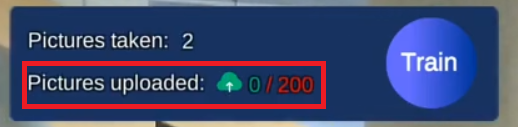
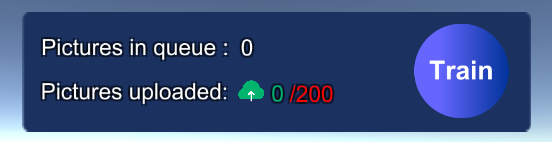
mapping layout

diff --git a/mapping_instructions.md b/mapping_instructions.md
@@ -1,61 +1,92 @@
-## Running the mapping 
-- You first need to make sure that your phone **SLAM** is stable enough to send proper datas to the server.
-- Then when you start mapping a place you need to make sure that you walk **at a normal pace**.
+## Basic theory
+Unlike previous versions, our mapping strategy is focused on collecting good quality data rather than a maximum of data. So the most important mapping instructions are:
+* Avoid blurry pictures, make sure your camera (or mapping device such as drone, smart glasses, etc) correctly focuses.
+* Walk slowly and avoid sharp turns to ensure that there are enough similarities between two frames 
 
-## How to map
+## Step by step explanations based on the Stardust World Scale AR app
+The demo apps are available on [__iOS App store__](https://apps.apple.com/us/app/stardust-world-scale-ar/id1551574766#?platform=iphone) and [__Android Play store__](https://play.google.com/store/apps/details?id=com.neogoma.stardust&pcampaignid=pcampaignidMKT-Other-global-all-co-prtnr-py-PartBadge-Mar2515-1). For Chinese users, please contact us directly if you need an APK. 
 
-### Quick explaination of the process
-1. __Start your mapping__ via UI or [programatically](comp_map_data_uploader.md#startstop-uploading-datas)
-2. __Collect the datas__ by walking around (make sure you consider the __uploaded datas__ and not the locally captured data). You can create objects along your mapping to create "reference positions".
-3. __Train your map__ once you have enough datas **uploaded** via UI or [programatically](comp_map_data_uploader.md#run-generation-new-map)
-4. [__Relocate__](#how-to-relocate) after receiving the notification, eventually update the map
-5. [__Update__ (Optional)](update_instructions.md) via UI or [programatically](comp_map_data_uploader.md#run-update-existing-map)
+Login into the app with your Stardust account. Open the scene “create new map” and input a map name. We’ll automatically assign a name if you lack inspiration. We’ve noticed it’s best to name the map after the place you’re mapping, it will avoid confusion. 
 
-### Detailed explainations based on the Stardust World Scale AR app
-First start on the data capture, from there it will start regularly capturing the frames.
+![Picture taken](_img/map_name.png)
 
-If you use the mapper you will notice on the top that you have 2 numbers:
+You will then land on the data capture scene, where the origin should be where you stand. The origin is represented by X,Y,Z axis in blue, green and red. If you don’t see them, you should close the app and start over to recalibrate your phone, which probably lost tracking during a previous session. This origin is important as it will help you to evaluate the accuracy of the relocation. 
+
+![Picture taken](_img/map_relocate.png)
+
+By clicking on the camera icon on the bottom right side of your screen, you will start mapping, which is another word to say regularly capturing the frames. The frames will be captured when we detect you moved in a significant way rather than at regular intervals. The current version is set to detect a movement of XXXcm or YYY degrees. Each frame taken will also trigger a photo capture animation on the camera icon and 2 numbers will start counting:
+
 ![Picture taken](_img/pic_upload.png)
-* Pictures taken: represents the frames taken on your phone. They __*DO NOT*__ represent the final status of your map
-* Pictures uploaded: represents the frame sucessfully sent to server. __All these pictures will be part of the training.__
 
-Once you start mapping your data are uploaded on the server by batch of 5. The datas are around 6 mb each so if you are using mobile data, __make sure you have enough data in your plan__.
+* Pictures in queue: this number represents every frame taken on your phone. They __DO NOT__ represent the final status of your map, but are an indication of how many frames you can still take until you’ll reach your tier limit.
+* Pictures uploaded: represents the __frame successfully sent to the servers.__ We’re sending them by batch of 5 to servers in Singapore, so it might take a while. Bear with us, we’ll scale that for V1.0. Data are around 6 Mb each so if you are using mobile data, __make sure you have enough data in your plan.__
 
 __You don't have to fill in all your picture quota to train the map (remember to keep some for the [update](update_instructions.md)).__
 
 Once you think you uploaded enough pictures for your space (try to cover as much area as necessary), you can click on the __TRAIN__ button.
 
-If you didn't fully fill in your quota you can [update](update_instructions.md) your map later.
+If you didn't fully fill in your quota you can [__update__](update_instructions.md) your map later.
 
-## How does it work
-Unlike previous versions our mapping strategy is focused on collecting good quality data rather than a maximum of datas.
-As a result the frames will be captured when we detect you moved in a significant way rather than at regular intervals.
+## Adding objects while mapping
+There are 2 ways to anchor 3D objects in your space: with the app while mapping or from the [__editor__](editor_commands.md). Creating objects while mapping is not only a good way to evaluate the accuracy of the relocation, but also to give you reference points for further creation. Just click on the + button to drop objects to your space. You can upload more objects from your dashboard, we are currently supporting .obj file and unity bundles.
 
-## How to relocate
-Go to a place or near a place that you __already mapped__ then try to relocate there.
+![Picture taken](_img/map_object.png)
 
-Make sure you __stand still__ when launching the relocation in order to avoid frame blurriness.
+## Adding navigation targets while mapping
+Similar to objects creation, the app allows you to add destination targets while mapping. You need to name the targets first and click on + to add them in your space. After relocating, you will be able to navigate to each target independently.
 
-**How do I know if I relocated properly ?**
+![Picture taken](_img/map_navigate.png)
 
-In the Stardust World Scale AR demo app, we show a 3D model that tells you where you started mapping.
-If you created objects, after relocation they should be close to where you put them.
+## Where and what to map
+__There is no physical limits to spaces you can map, but a couple of guidelines to keep in mind:__
 
-## Examples
+* Similar to the way human eyes work, a camera can’t map or recognize a completely dark space
+* Reflective surfaces will create different visual features based on your current viewpoint, which might not be correctly interpreted by our models
+* Spaces with limited visual features such as a white wall or a hotel corridor with 200 similar doors will create issues. Again here, the human eye wouldn’t be able to know exactly where it is, computer vision works the same way. 
+* Crowed places are not an issue but will require multiple updates. Similarly, objects that will frequently move, such as chairs, can be included in a bigger map that has at 4-5 updates. Even works with changing screens that are part of a bigger map.
+
+
+The following drawing should cover most places you might be mapping. In this example, we’ve created a big map first, but you can decide to map smaller distinctive spaces and stitch them together later. The mapping technique is always the same, regardless of indoor and outdoor spaces.
+
+While mapping and updating the map, what you’re trying to achieve is to **cover as many viewpoints as possible,** so that end-users will able to relocate with a high probability and accuracy. Remember, the more viewpoints the better accuracy and successful ratio!
+
+As you can see below, the **first mapping in dark grey** was done to cover the main path. Along that path, multiple updates (different green colours) were added to include specific areas, **covering as many viewpoints as possible.** Our current model can estimate a relocation pose request up to 30° different from the dataset. Above that, the only solution to guarantee a successful relocation is a map update. 
+
+![Picture taken](_img/map_illustrate.jpg)
+
+Warning: if you pause your mapping, remember to start over where you took the last frame! If there is no overlap between 2 frames, both relocation and SFM algorithms won’t be able to work.
+
+## Mapping Examples
 ### Good mapping example
-The following video is a simple example of **GOOD MAPPING**.
+The following video is a simple example of **GOOD MAPPING.**
 
 [Good mapping](_videos/good_mapping.mp4  ':include :type=video')
 
-The user walk slowly and turns the camera slowly during rotations. 
+The user walks slowly and turns the camera slowly during rotations.
 
 ### Bad mapping example
-The following video is a simple example of **BAD MAPPING**
+The following video is a simple example of **BAD MAPPING.**
 
+[Bad mapping](_videos/bad_mapping.mp4 ':include :type=video')
 
 **What is wrong ?**
 1. The user turned the camera fast so some frames will be low quality
 2. The user was running while mapping which made frame inconsistent in quality
-3. Because of the fast movements, maybe the SLAM datas of the phones are also
+3. Because of the fast movements, maybe the SLAM data of the phones are also
 
-[Bad mapping](_videos/bad_mapping.mp4 ':include :type=video')
+
+## HOW TO RELOCATE
+Go to a place or near a place that you already mapped then try to relocate there.
+Make sure you stand still when launching the relocation in order to avoid frame blurriness.
+
+**How do I know if I relocated properly ?**
+
+In the Stardust World Scale AR demo app, we show a 3D avatar that tells you where you started mapping. If you created objects, after relocation they should be close to where you put them. Look for that guy!
+
+![Picture taken](_img/map_relocateSuccess.png)
+
+Likely reasons you’ll have a FAILED relocation:
+* Blurry pictures while mapping or relocating
+* No enough frames uploaded while mapping
+* Too few updates
+* Trying to relocate in a place that has not been mapped 

diff --git a/detailed_instruction.md b/detailed_instruction.md
@@ -1,0 +1,7 @@
+Quick explaination of the process
+===
+1. __Start your mapping__ via UI or [programatically](comp_map_data_uploader.md#startstop-uploading-datas)
+2. __Collect the datas__ by walking around (make sure you consider the __uploaded datas__ and not the locally captured data). You can create objects along your mapping to create "reference positions".
+3. __Train your map__ once you have enough datas **uploaded** via UI or [programatically](comp_map_data_uploader.md#run-generation-new-map)
+4. [__Relocate__](#how-to-relocate) after receiving the email notification by selecting your map name
+5. [__Update__ (Optional)](update_instructions.md) via UI or [programatically](comp_map_data_uploader.md#run-update-existing-map)

diff --git a/_sidebar.md b/_sidebar.md
@@ -2,7 +2,7 @@
   * [Quick start](quickstart.md)
   * [Upgrade guide](upgrade_guide.md)
 
-* Detailed instructions
+* [Detailed instructions](detailed_instruction.md) 
   * [Mapping instructions](mapping_instructions.md)
   * [Update instructions](update_instructions.md)
 
